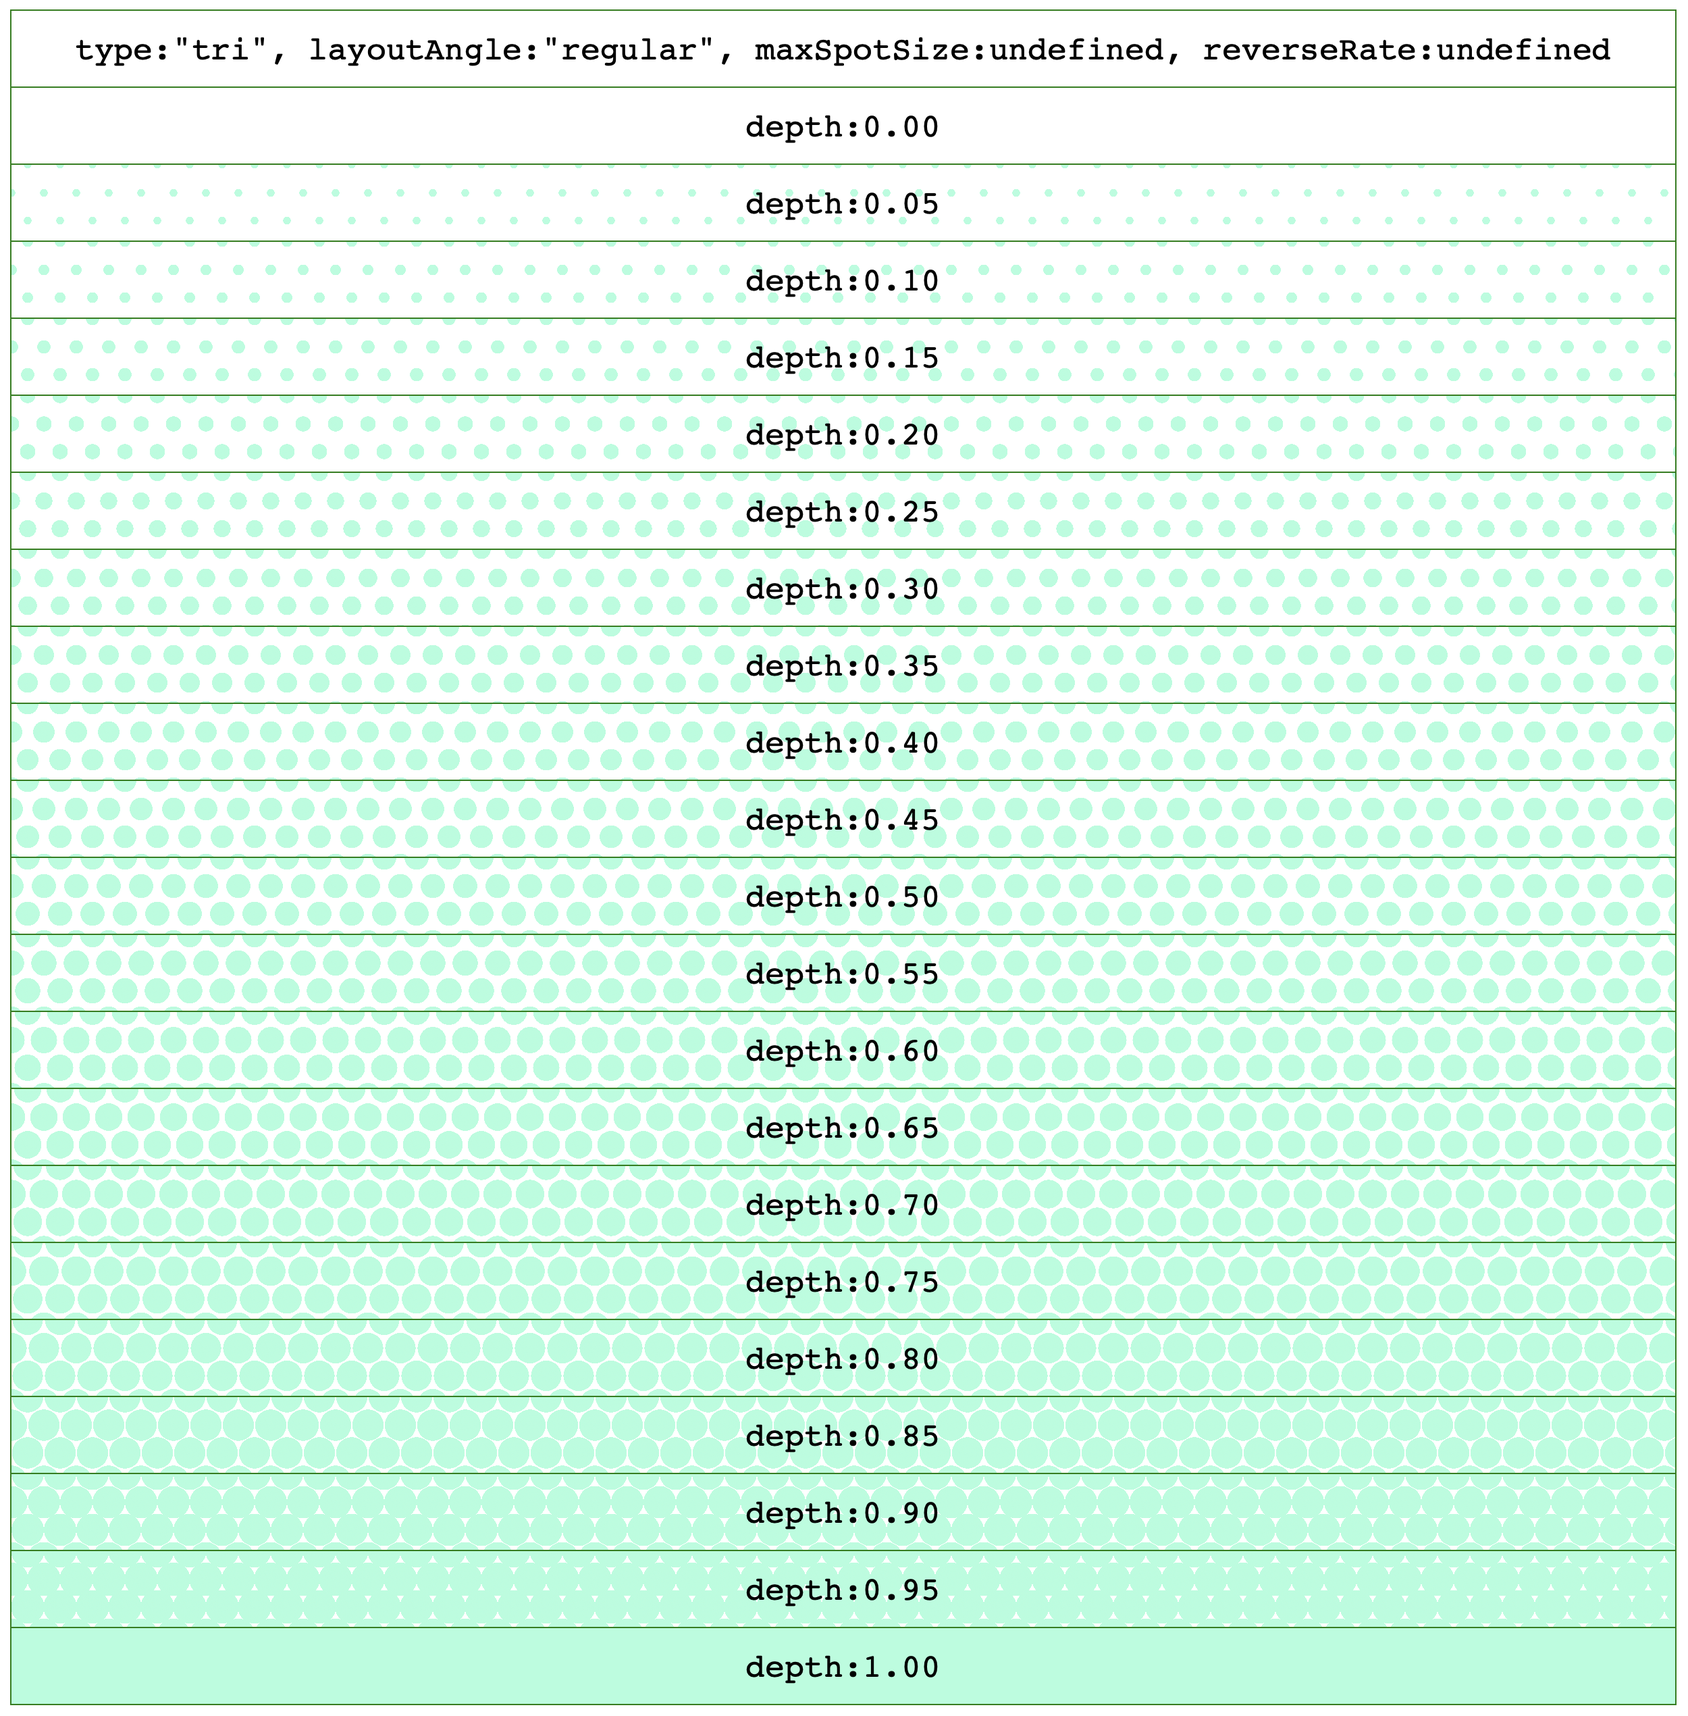
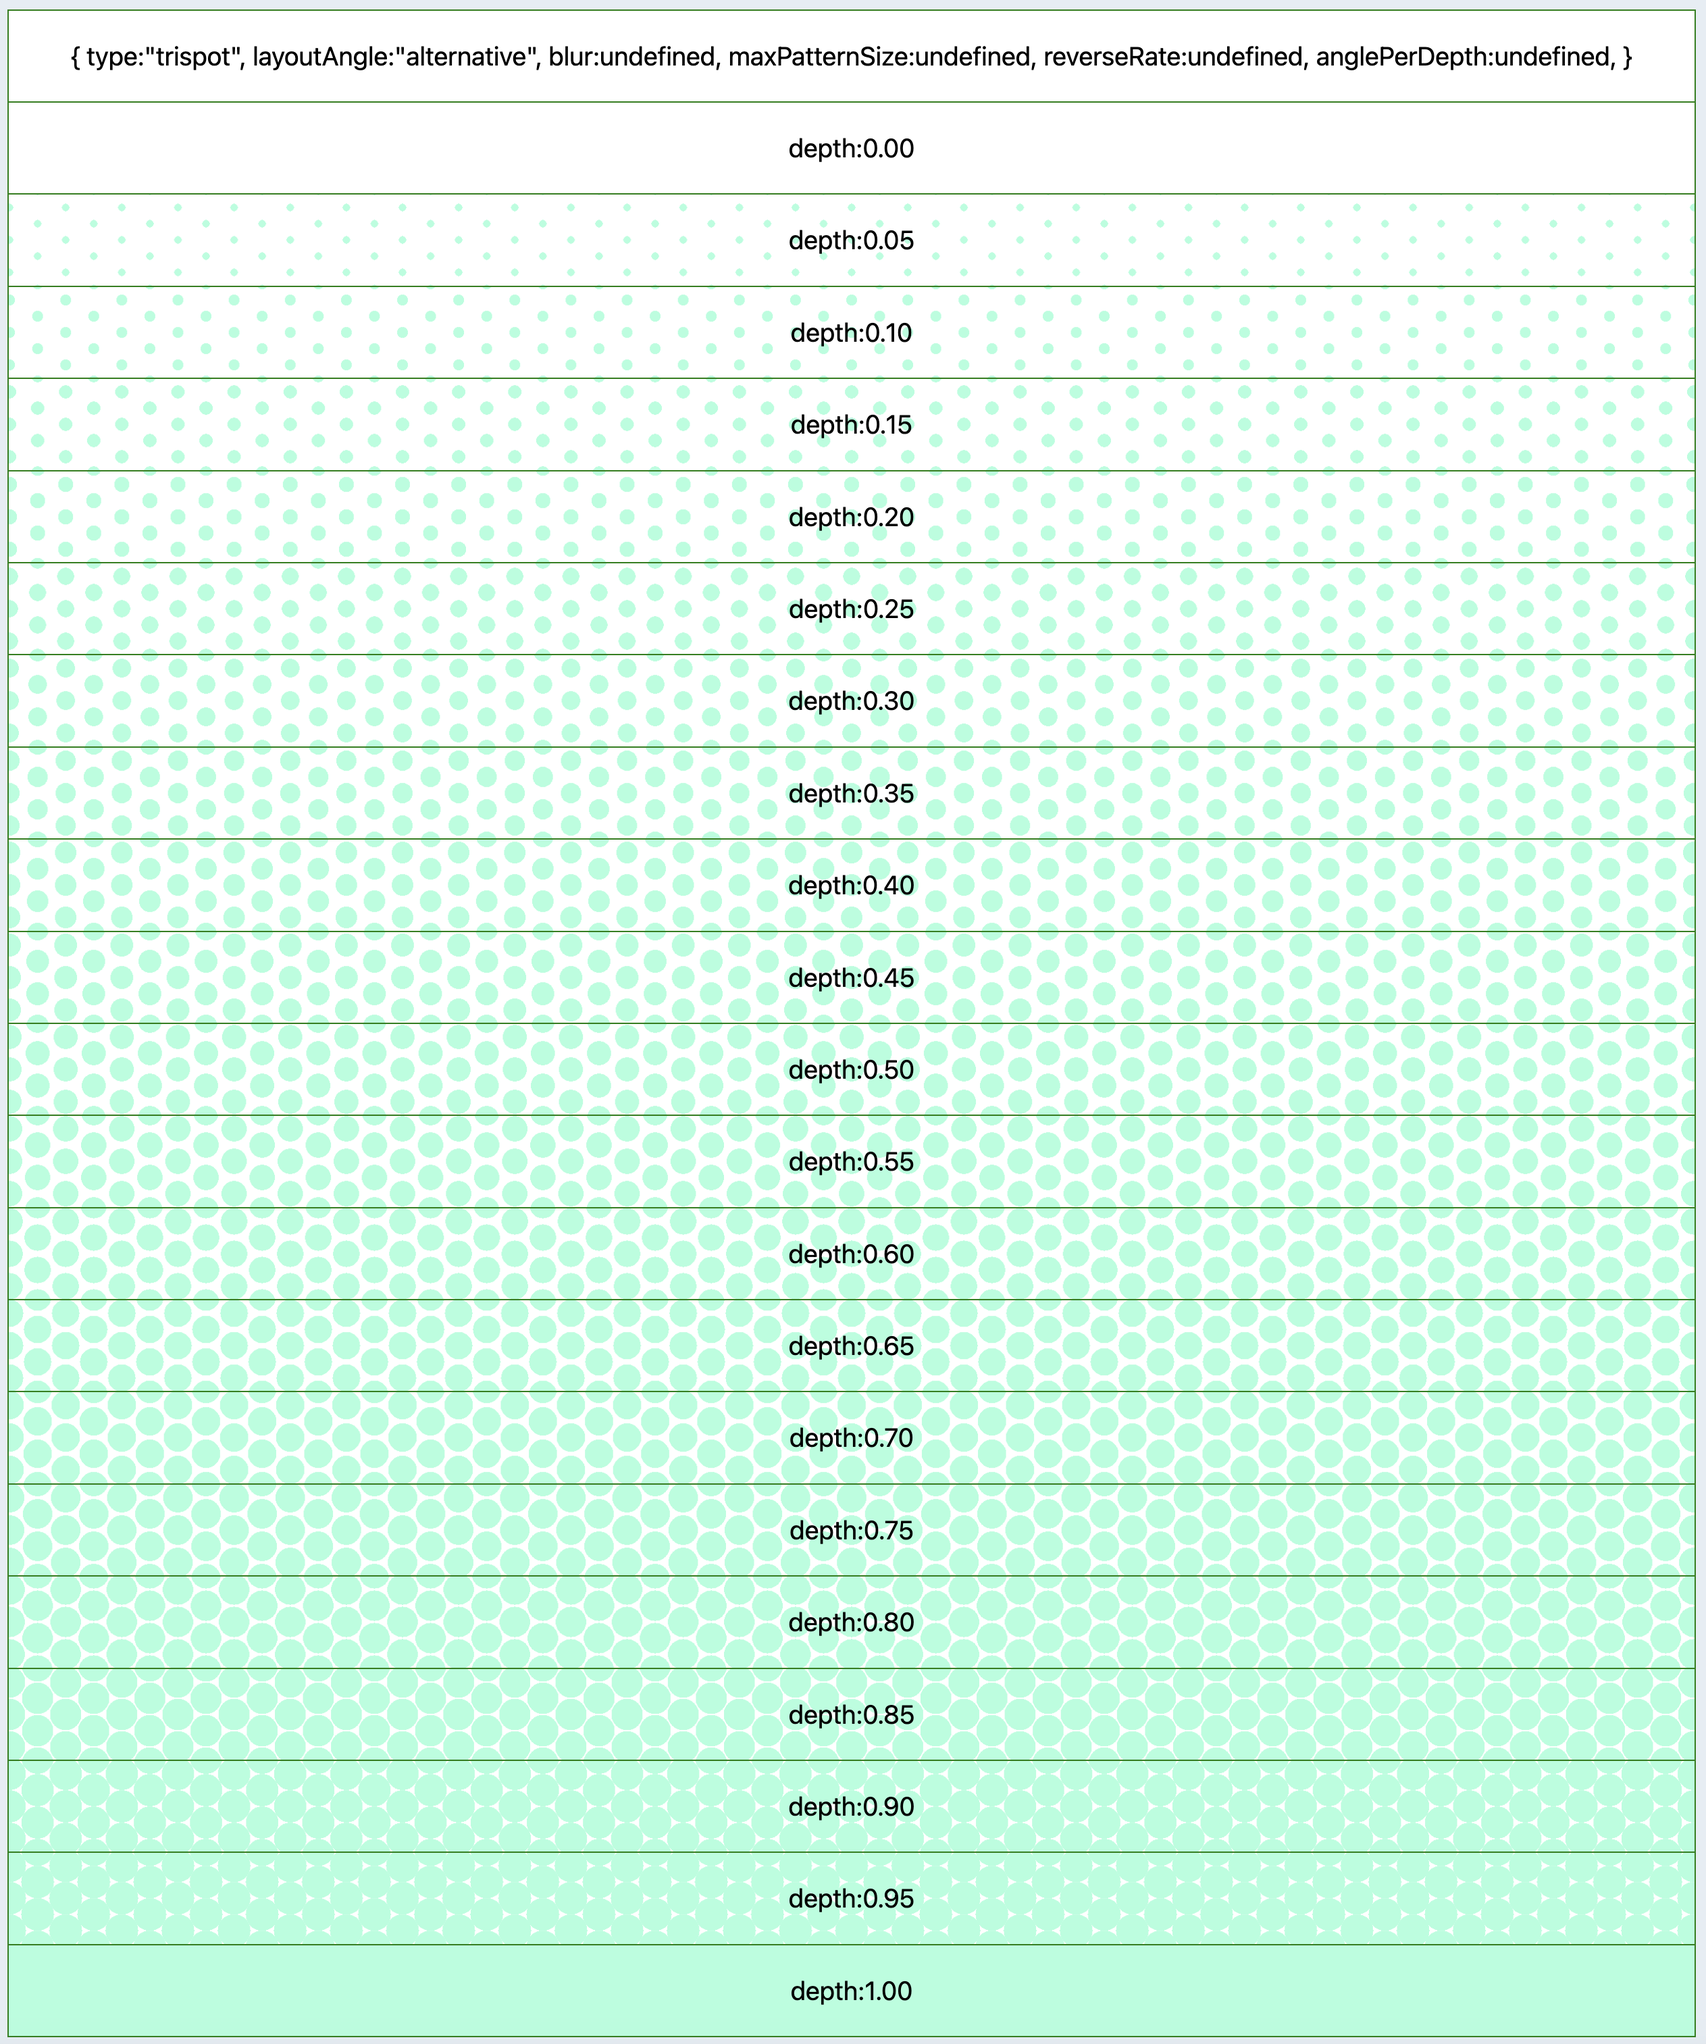
📍 v2.0.0

diff --git a/samples.html b/samples.html
@@ -7,17 +7,28 @@ body
 {
     margin: 0px;
     padding: 0px;
+    background-color: rgb(230, 237, 243);
 }
 h1
 {
     margin: 0px;
-    padding: 0.5rem;
-    background-color: #AAFFDD;
-    font-family: monospace;
+    padding: 1.0rem;
+    color: rgb(230, 237, 243);
+    background-color: rgb(1,4, 9);
+    font-family: -apple-system, BlinkMacSystemFont, "Segoe UI", "Noto Sans", Helvetica, Arial, sans-serif, "Apple Color Emoji", "Segoe UI Emoji";
+    font-size: 1.5rem;
+    line-height: 100%;
+    position: fixed;
+    width: 100%;
+}
+h1 a
+{
+    color: rgb(230, 237, 243);
 }
 #screen-body
 {
     padding: 1rem;
+    padding-top: 3.5rem;
 }
 .sample.title
 {
@@ -33,10 +44,11 @@ h1
     border-style: solid;
     border-width: 1px;
     border-color: green;
-    font-family: monospace;
+    font-family: -apple-system, BlinkMacSystemFont, "Segoe UI", "Noto Sans", Helvetica, Arial, sans-serif, "Apple Color Emoji", "Segoe UI Emoji";
     max-width: 1200px;
     margin-left: auto;
     margin-right: auto;
+    background-color: white;
 }
 .sample + .sample:not(.title)
 {
@@ -46,7 +58,7 @@ h1
 </style>
 </head>
 <body>
-<h1>flounder.style.js demo page</h1>
+<h1><a href="https://github.com/">GitHub</a> / <a href="https://github.com/wraith13">wraith13</a> / <a href="https://github.com/wraith13/flounder.style.js">flounder.style.js</a> / samples</h1>
 <div id="screen-body"></div>
 <script src="https://wraith13.github.io/evil-commonjs/index.js"></script>
 <script>
@@ -65,7 +77,7 @@ window.module.sequentialLoad
         const $div = $tag("div");
         const valueToString = (value) => undefined === value ? "undefined": JSON.stringify(value);
         const makeTitle = (data) =>
-            $div("sample title")(`type:${valueToString(data.type)}, layoutAngle:${valueToString(data.layoutAngle)}, blur:${valueToString(data.blur)}, maxPatternSize:${valueToString(data.maxPatternSize)}, reverseRate:${valueToString(data.reverseRate)}, anglePerDepth:${valueToString(data.anglePerDepth)}`);
+            $div("sample title")(`{ type:${valueToString(data.type)}, layoutAngle:${valueToString(data.layoutAngle)}, blur:${valueToString(data.blur)}, maxPatternSize:${valueToString(data.maxPatternSize)}, reverseRate:${valueToString(data.reverseRate)}, anglePerDepth:${valueToString(data.anglePerDepth)}, }`);
         const makeArguments = (data, depth) =>
         {
             const result = structuredClone(data);
@@ -85,22 +97,22 @@ window.module.sequentialLoad
         (
             document.getElementById("screen-body"),
             [
-                { type: "trispot", layoutAngle: "regular", foregroundColor: "#AAFFDD", depth: 0, maxPatternSize: undefined, intervalSize: 24, },
-                { type: "trispot", layoutAngle: "alternative", foregroundColor: "#AAFFDD", depth: 0, maxPatternSize: undefined, intervalSize: 24, },
-                { type: "tetraspot", layoutAngle: "regular", foregroundColor: "#AAFFDD", depth: 0, maxPatternSize: undefined, intervalSize: 24, },
-                { type: "tetraspot", layoutAngle: "alternative", foregroundColor: "#AAFFDD", depth: 0, maxPatternSize: undefined, intervalSize: 24, },
-                { type: "diline", layoutAngle: "regular", foregroundColor: "#AAFFDD", depth: 0, maxPatternSize: undefined, intervalSize: 24, },
-                { type: "diline", layoutAngle: "alternative", foregroundColor: "#AAFFDD", depth: 0, maxPatternSize: undefined, intervalSize: 24, },
-                { type: "triline", layoutAngle: "regular", foregroundColor: "#AAFFDD", depth: 0, maxPatternSize: undefined, intervalSize: 24, },
-                { type: "triline", layoutAngle: "alternative", foregroundColor: "#AAFFDD", depth: 0, maxPatternSize: undefined, intervalSize: 24, },
-                { type: "trispot", layoutAngle: "regular", foregroundColor: "#AAFFDD", depth: 0, maxPatternSize: 4, intervalSize: 24, },
-                { type: "trispot", layoutAngle: "alternative", foregroundColor: "#AAFFDD", depth: 0, maxPatternSize: 4, intervalSize: 24, },
-                { type: "tetraspot", layoutAngle: "regular", foregroundColor: "#AAFFDD", depth: 0, maxPatternSize: 4, intervalSize: 24, },
-                { type: "tetraspot", layoutAngle: "alternative", foregroundColor: "#AAFFDD", depth: 0, maxPatternSize: 4, intervalSize: 24, },
-                { type: "diline", layoutAngle: "regular", foregroundColor: "#AAFFDD", depth: 0, maxPatternSize: 4, intervalSize: 24, },
-                { type: "diline", layoutAngle: "alternative", foregroundColor: "#AAFFDD", depth: 0, maxPatternSize: 4, intervalSize: 24, },
-                { type: "triline", layoutAngle: "regular", foregroundColor: "#AAFFDD", depth: 0, maxPatternSize: 4, intervalSize: 24, },
-                { type: "triline", layoutAngle: "alternative", foregroundColor: "#AAFFDD", depth: 0, maxPatternSize: 4, intervalSize: 24, },
+                { type: "trispot", layoutAngle: "regular", foregroundColor: "#AAFFDD", backgroundColor: "white", depth: 0, maxPatternSize: undefined, intervalSize: 24, },
+                { type: "trispot", layoutAngle: "alternative", foregroundColor: "#AAFFDD", backgroundColor: "white", depth: 0, maxPatternSize: undefined, intervalSize: 24, },
+                { type: "tetraspot", layoutAngle: "regular", foregroundColor: "#AAFFDD", backgroundColor: "white", depth: 0, maxPatternSize: undefined, intervalSize: 24, },
+                { type: "tetraspot", layoutAngle: "alternative", foregroundColor: "#AAFFDD", backgroundColor: "white", depth: 0, maxPatternSize: undefined, intervalSize: 24, },
+                { type: "diline", layoutAngle: "regular", foregroundColor: "#AAFFDD", backgroundColor: "white", depth: 0, maxPatternSize: undefined, intervalSize: 24, },
+                { type: "diline", layoutAngle: "alternative", foregroundColor: "#AAFFDD", backgroundColor: "white", depth: 0, maxPatternSize: undefined, intervalSize: 24, },
+                { type: "triline", layoutAngle: "regular", foregroundColor: "#AAFFDD", backgroundColor: "white", depth: 0, maxPatternSize: undefined, intervalSize: 24, },
+                { type: "triline", layoutAngle: "alternative", foregroundColor: "#AAFFDD", backgroundColor: "white", depth: 0, maxPatternSize: undefined, intervalSize: 24, },
+                { type: "trispot", layoutAngle: "regular", foregroundColor: "#AAFFDD", backgroundColor: "white", depth: 0, maxPatternSize: 4, intervalSize: 24, },
+                { type: "trispot", layoutAngle: "alternative", foregroundColor: "#AAFFDD", backgroundColor: "white", depth: 0, maxPatternSize: 4, intervalSize: 24, },
+                { type: "tetraspot", layoutAngle: "regular", foregroundColor: "#AAFFDD", backgroundColor: "white", depth: 0, maxPatternSize: 4, intervalSize: 24, },
+                { type: "tetraspot", layoutAngle: "alternative", foregroundColor: "#AAFFDD", backgroundColor: "white", depth: 0, maxPatternSize: 4, intervalSize: 24, },
+                { type: "diline", layoutAngle: "regular", foregroundColor: "#AAFFDD", backgroundColor: "white", depth: 0, maxPatternSize: 4, intervalSize: 24, },
+                { type: "diline", layoutAngle: "alternative", foregroundColor: "#AAFFDD", backgroundColor: "white", depth: 0, maxPatternSize: 4, intervalSize: 24, },
+                { type: "triline", layoutAngle: "regular", foregroundColor: "#AAFFDD", backgroundColor: "white", depth: 0, maxPatternSize: 4, intervalSize: 24, },
+                { type: "triline", layoutAngle: "alternative", foregroundColor: "#AAFFDD", backgroundColor: "white", depth: 0, maxPatternSize: 4, intervalSize: 24, },
                 { type: "trispot", layoutAngle: "regular", foregroundColor: "#AAFFDD", backgroundColor: "white", reverseRate:"auto", depth: 0, maxPatternSize: undefined, intervalSize: 24, },
                 { type: "trispot", layoutAngle: "alternative", foregroundColor: "#AAFFDD", backgroundColor: "white", reverseRate:"auto", depth: 0, maxPatternSize: undefined, intervalSize: 24, },
                 { type: "tetraspot", layoutAngle: "regular", foregroundColor: "#AAFFDD", backgroundColor: "white", reverseRate:"auto", depth: 0, maxPatternSize: undefined, intervalSize: 24, },
@@ -119,16 +131,16 @@ window.module.sequentialLoad
                 { type: "triline", layoutAngle: "alternative", foregroundColor: "#AAFFDD", backgroundColor: "white", reverseRate:"auto", depth: 0, maxPatternSize: 4, intervalSize: 24, },
                 { type: "trispot", layoutAngle: "regular", foregroundColor: "#AAFFDD", backgroundColor: "white", reverseRate:"-auto", depth: 0, maxPatternSize: undefined, intervalSize: 24, },
                 { type: "tetraspot", layoutAngle: "alternative", foregroundColor: "#AAFFDD", backgroundColor: "white", reverseRate:"-auto", depth: 0, maxPatternSize: undefined, intervalSize: 24, },
-                { type: "stripe", layoutAngle: 0.2, foregroundColor: "#AAFFDD", depth: 0, maxPatternSize: undefined, intervalSize: 24, },
-                { type: "stripe", layoutAngle: 0.2, foregroundColor: "#AAFFDD", depth: 0, maxPatternSize: 4, intervalSize: 24, },
-                { type: "diline", layoutAngle: 0.2, foregroundColor: "#AAFFDD", depth: 0, maxPatternSize: undefined, intervalSize: 24, },
-                { type: "triline", layoutAngle: 0.2, foregroundColor: "#AAFFDD", depth: 0, maxPatternSize: undefined, intervalSize: 24, },
+                { type: "stripe", layoutAngle: 0.2, foregroundColor: "#AAFFDD", backgroundColor: "white", depth: 0, maxPatternSize: undefined, intervalSize: 24, },
+                { type: "stripe", layoutAngle: 0.2, foregroundColor: "#AAFFDD", backgroundColor: "white", depth: 0, maxPatternSize: 4, intervalSize: 24, },
+                { type: "diline", layoutAngle: 0.2, foregroundColor: "#AAFFDD", backgroundColor: "white", depth: 0, maxPatternSize: undefined, intervalSize: 24, },
+                { type: "triline", layoutAngle: 0.2, foregroundColor: "#AAFFDD", backgroundColor: "white", depth: 0, maxPatternSize: undefined, intervalSize: 24, },
                 { type: "diline", layoutAngle: 0.2, foregroundColor: "#AAFFDD", backgroundColor: "white", reverseRate:"auto", depth: 0, maxPatternSize: 4, intervalSize: 24, },
                 { type: "triline", layoutAngle: 0.2, foregroundColor: "#AAFFDD", backgroundColor: "white", reverseRate:"auto", depth: 0, maxPatternSize: 4, intervalSize: 24, },
-                { type: "stripe", layoutAngle: "regular", foregroundColor: "#AAFFDD", depth: 0, maxPatternSize: undefined, intervalSize: 24, anglePerDepth: "auto", },
-                { type: "stripe", layoutAngle: "alternative", foregroundColor: "#AAFFDD", depth: 0, maxPatternSize: undefined, intervalSize: 24, anglePerDepth: "auto", },
-                { type: "diline", layoutAngle: 0.0, foregroundColor: "#AAFFDD", depth: 0, maxPatternSize: undefined, intervalSize: 24, anglePerDepth: "auto", },
-                { type: "triline", layoutAngle: 0.0, foregroundColor: "#AAFFDD", depth: 0, maxPatternSize: undefined, intervalSize: 24, anglePerDepth: "auto", },
+                { type: "stripe", layoutAngle: "regular", foregroundColor: "#AAFFDD", backgroundColor: "white", depth: 0, maxPatternSize: undefined, intervalSize: 24, anglePerDepth: "auto", },
+                { type: "stripe", layoutAngle: "alternative", foregroundColor: "#AAFFDD", backgroundColor: "white", depth: 0, maxPatternSize: undefined, intervalSize: 24, anglePerDepth: "auto", },
+                { type: "diline", layoutAngle: 0.0, foregroundColor: "#AAFFDD", backgroundColor: "white", depth: 0, maxPatternSize: undefined, intervalSize: 24, anglePerDepth: "auto", },
+                { type: "triline", layoutAngle: 0.0, foregroundColor: "#AAFFDD", backgroundColor: "white", depth: 0, maxPatternSize: undefined, intervalSize: 24, anglePerDepth: "auto", },
                 { type: "trispot", layoutAngle: "regular", foregroundColor: "#AAFFDD", backgroundColor: "white", reverseRate:"auto", depth: 0, blur: 1.0, maxPatternSize: undefined, intervalSize: 24, },
                 { type: "triline", layoutAngle: 0.2, foregroundColor: "#AAFFDD", backgroundColor: "white", reverseRate:"auto", depth: 0, blur: 1.0, maxPatternSize: undefined, intervalSize: 24, },
             ]

diff --git a/README.md b/README.md
@@ -13,20 +13,25 @@ These problems can be avoided by using color pattern expressions.
 ## Redering CSS Sample
 
 ```css
+background-color: white;
 background-image:
-    radial-gradient(circle, rgb(170, 255, 221) 8px, transparent 8px),
-    radial-gradient(circle, rgb(170, 255, 221) 8px, transparent 8px),
-    radial-gradient(circle, rgb(170, 255, 221) 8px, transparent 8px),
-    radial-gradient(circle, rgb(170, 255, 221) 8px, transparent 8px);
-background-size: 43.1px 37.32px;
-background-position: 0px 0px, 21.55px 0px, 10.77px 18.66px, 32.32px 18.66px;
+    radial-gradient(circle, rgb(170, 255, 221) 8.91px, transparent 8.91px),
+    radial-gradient(circle, rgb(170, 255, 221) 8.91px, transparent 8.91px),
+    radial-gradient(circle, rgb(170, 255, 221) 8.91px, transparent 8.91px),
+    radial-gradient(circle, rgb(170, 255, 221) 8.91px, transparent 8.91px);
+background-size: 41.569px 48px;
+background-position:
+    calc(0px + 50%) calc(0px + 50%),
+    calc(0px + 50%) calc(24px + 50%),
+    calc(20.785px + 50%) calc(12px + 50%),
+    calc(20.785px + 50%) calc(36px + 50%);
 ```
 
 ( Line breaks and indentation have been adjusted for ease of viewing, and the CSS that is actually created will not have line breaks and indentation adjusted like this. )
 
 ## Redering Samples
 
-See [all samples on the demo page](https://wraith13.github.io/flounder.style.js/demo.html).
+See [samples](https://wraith13.github.io/flounder.style.js/demo.html).
 
 ![](./image/sample0.png)
 ![](./image/sample1.png)
@@ -45,7 +50,7 @@ import { flounderStyle } from "flounder.style.js";
 // make style list
 const data: flounderStyle.Arguments =
 {
-    type: "tri",
+    type: "trispot",
     layoutAngle: "regular",
     foregroundColor: "#AAFFDD",
     intervalSize: 24,
@@ -65,8 +70,8 @@ console.log(`CSS: ${flounderStyle.styleListToString(styleList)}`);
 
 |key|type|default|description|
 |---|---|---|---|
-|type|"trispot" \| "tetraspot" \| "stripe" \| "diline" \| "tryline"|`NOT OPTIONAL`|see [demo](https://wraith13.github.io/flounder.style.js/demo.html).|
-|layoutAngle|"regular" \| "alternative" \| number(±rate)|"regular"|see [demo](https://wraith13.github.io/flounder.style.js/demo.html). number can only be specified when type is "stripe" or "diline" or "triline".|
+|type|"trispot" \| "tetraspot" \| "stripe" \| "diline" \| "tryline"|`NOT OPTIONAL`|see [samples](https://wraith13.github.io/flounder.style.js/samples.html).|
+|layoutAngle|"regular" \| "alternative" \| number(±rate)|"regular"|see [samples](https://wraith13.github.io/flounder.style.js/samples.html). number can only be specified when type is "stripe" or "diline" or "triline".|
 |foregroundColor|[CSS Color](https://developer.mozilla.org/en-US/docs/Web/CSS/color_value)|`NOT OPTIONAL`|Foreground pattern color. foregroundColor must be other than "transparent".|
 |backgroundColor|[CSS Color](https://developer.mozilla.org/en-US/docs/Web/CSS/color_value)|"transparent"|Background pattern color. When using reverseRate, backgroundColor must be other than "transparent".|
 |intervalSize|number(pixel)|24|Number of pixels from the center of a spot to the center of the next spot.|

diff --git a/CHANGELOG.md b/CHANGELOG.md
@@ -1,6 +1,6 @@
 # Change Log
 
-## 2.?.? - 2024-01-??
+## 2.0.0 - 2024-01-05
 
 ### Added
 
